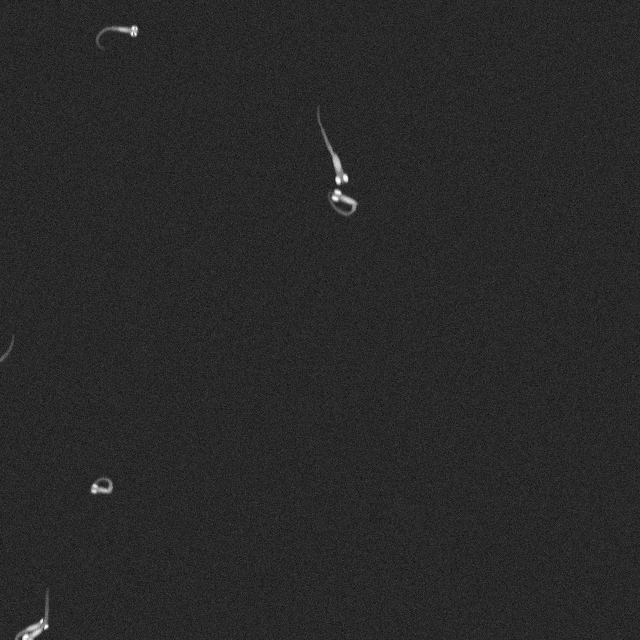
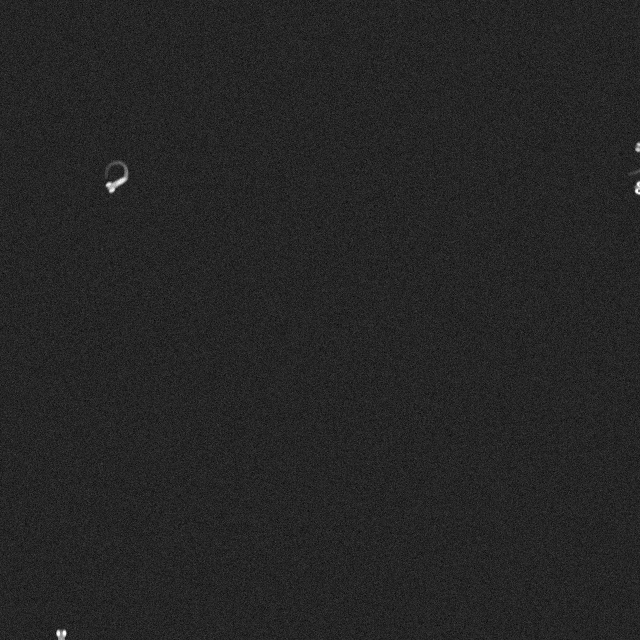
overloaded the constructor for Aquarium it can now take in fishVectors, and amounts

diff --git a/Programs/Aquarium.py b/Programs/Aquarium.py
@@ -8,7 +8,45 @@ from Programs.programsForDrawingImage import f_x_to_model_bigger
 imageSizeY, imageSizeX = Config.imageSizeY, Config.imageSizeX
 
 class Aquarium:
-    def __init__(self, frame_idx):
+    # Static Variables
+    aquariumVariables = ['fishInAllViews', 'fishInEdges','overlapping']
+    fishVectListKey = 'fishVectList'
+
+    def overloaded_constructor(self, **kwargs):
+        aquariumVariablesDict = {'fishInAllViews':0, 'fishInEdges':0, 'overlapping':0}
+
+        wasAnAquariumVariableDetected = False
+        wasAnAquariumPassed = False
+        for key in kwargs:
+            if key in Aquarium.aquariumVariables:
+                aquariumVariablesDict[key] = kwargs.get(key)
+                wasAnAquariumVariableDetected = True
+            if key is Aquarium.fishVectListKey:
+                wasAnAquariumPassed = True
+                fishVectList = kwargs.get(key)
+
+        if not wasAnAquariumPassed:
+            if wasAnAquariumVariableDetected:
+                fishVectList = self.generateFishListGivenVariables(aquariumVariablesDict)
+            else:
+                fishesInView = np.random.randint(0, Config.maxFishesInView)
+                fishesInEdge = np.random.poisson(Config.averageFishInEdges)
+                overlappingFish = 0
+                for _ in range(fishesInView + fishesInEdge):
+                    shouldItOverlap = True if np.random.rand() < Config.overlappingFishFrequency else False
+                    if shouldItOverlap: overlappingFish += 1
+                fishVectList = generateRandomConfiguration(fishesInView, fishesInEdge, overlappingFish)
+
+        return fishVectList
+
+    def generateFishListGivenVariables(self, aquariumVariablesDict):
+        fishInAllViews = aquariumVariablesDict.get('fishInAllViews')
+        overlapping = aquariumVariablesDict.get('overlapping')
+        fishInEdges = aquariumVariablesDict.get('fishInEdges')
+        fishVectList = generateRandomConfiguration(fishInAllViews, fishInEdges, overlapping)
+        return fishVectList
+
+    def __init__(self, frame_idx, **kwargs):
         # Getting the configuration settings
         maxFishesInView = Config.maxFishesInView
         averageFishInEdges = Config.averageFishInEdges
@@ -18,15 +56,7 @@ class Aquarium:
         self.shouldSaveAnnotations = Config.shouldSaveAnnotations
         self.shouldSaveImages = Config.shouldSaveImages
 
-        fishesInView = np.random.randint(0, maxFishesInView)
-        fishesInEdge = np.random.poisson(averageFishInEdges)
-        overlappingFish = 0
-        for _ in range(fishesInView + fishesInEdge):
-            shouldItOverlap = True if np.random.rand() < overlappingFishFrequency else False
-            if shouldItOverlap: overlappingFish += 1
-
-
-        fishVectList = generateRandomConfiguration(fishesInView, fishesInEdge, overlappingFish)
+        fishVectList = self.overloaded_constructor(**kwargs)
         self.fish_list = []
         for fishVect in fishVectList:
             fish = Fish(fishVect)

diff --git a/runme_generate_training_data.py b/runme_generate_training_data.py
@@ -34,8 +34,6 @@ for folder in folders:
        if not os.path.exists(subSubPath):
            os.makedirs(subSubPath)
 
-# genData(15)
-
 def init_pool_process():
     np.random.seed()
 
@@ -52,6 +50,24 @@ if __name__ == '__main__':
     print('Finish Running')
     print('Average Time: ' + str((endTime - startTime)/amount))
 
+debug = False
+if debug:
+    # # Passing in amounts
+    # aquarium = Aquarium(0, fishInAllViews=2, fishInEdges=0, overlapping=0)
+    # aquarium.draw()
+    # aquarium.save_image()
+    # aquarium.save_annotations()
 
+    # Passing in fish vectors
+    # the values in a fishVect are arranged as follows seglen, plane id (1 or 2) , x vector
+    fishVectList = [[ 6.80000000e+00,  1.00000000e+00,  2.88000000e+02,  1.01000000e+02,
+                      2.09010797e+00, -2.32833530e-01, -1.01049372e+00, -6.28785639e-01,
+                      -3.76418699e-01, -4.89061701e-01, -2.84080779e-01, -2.25273290e-01, -3.33734275e-01],
+                    [8.80000000e+00, 2.00000000e+00, 4.78000000e+02, 1.01000000e+02,
+                    3.09010797e+00, -2.32833530e-01, -1.01049372e+00, -6.28785639e-01,
+                    -3.76418699e-01, -4.89061701e-01, -2.84080779e-01, -2.25273290e-01, -3.33734275e-01]]
 
-
+    aquarium = Aquarium(0, fishVectList = fishVectList)
+    aquarium.draw()
+    aquarium.save_image()
+    aquarium.save_annotations()

diff --git a/visualizing.py b/visualizing.py
@@ -119,7 +119,7 @@ def draw_YOLO_pose_annotations(imageFilePath):
     return catResults
 
 # Warning: This program currently only works with the parent directory set to data
-imageFilePath = 'data/images/train/zebrafish_000003.png'
+imageFilePath = 'data/images/train/zebrafish_000000.png'
 result = draw_YOLO_pose_annotations(imageFilePath)
 cv.imwrite('test.png', result)
 
